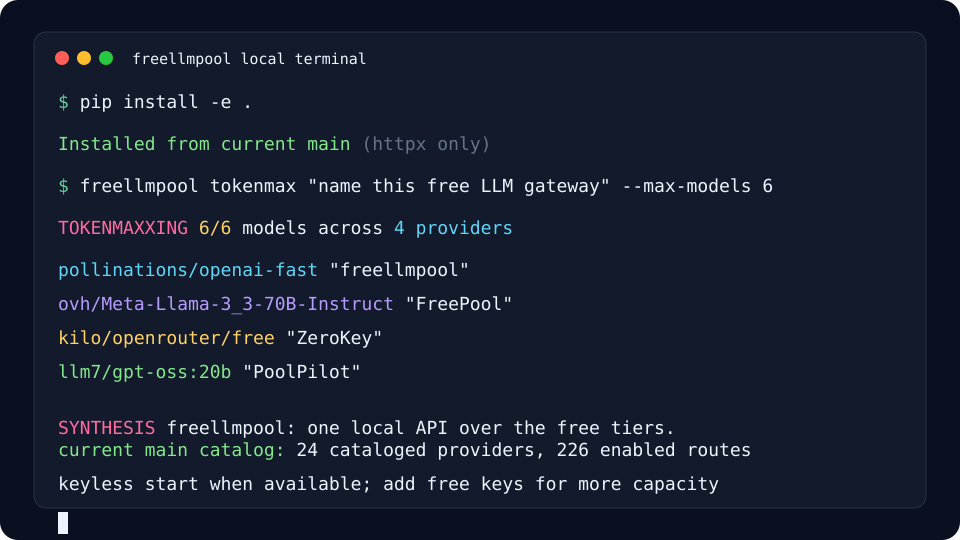
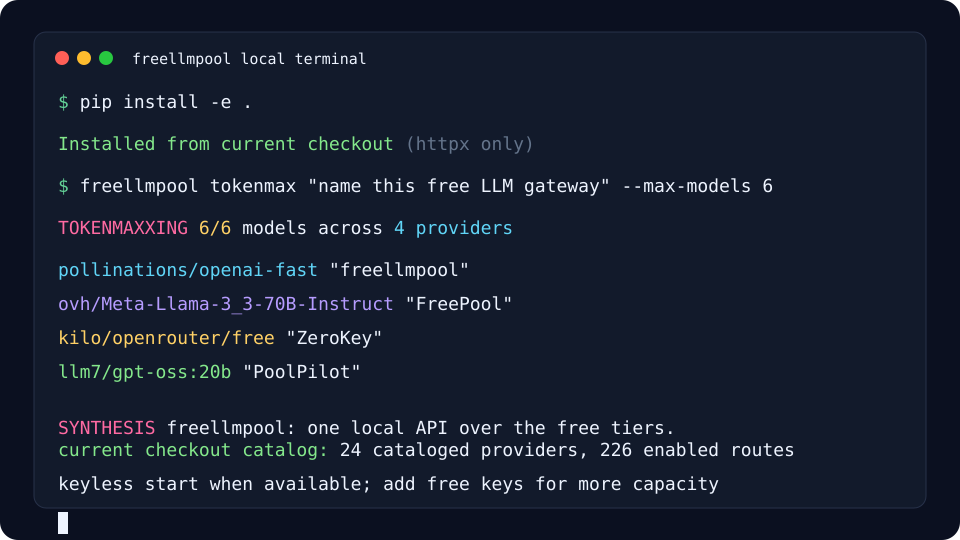
fix: close second xhigh audit findings

Changed region(s): [[0.1562, 0.8, 0.8438, 0.8593], [0.3125, 0.237, 0.5625, 0.2963]]

diff --git a/docs/index.html b/docs/index.html
@@ -185,7 +185,7 @@ for provider routing, ToS, and privacy notes.</p>
 
 </div>
 
-<p class="meta">Free and open source (MIT). Latest release: 0.11.4. Page updated 2026-07-28.
+<p class="meta">Free and open source (MIT). Latest release: 0.11.4. Page updated 2026-08-23.
 Project: <a href="https://github.com/0xzr/freellmpool">github.com/0xzr/freellmpool</a></p>
 
 </div>

diff --git a/tests/test_vercel_gateway.py b/tests/test_vercel_gateway.py
@@ -241,6 +241,17 @@ def test_public_audit_rejects_bad_or_nonzero_free_route_endpoints(endpoint_paylo
     assert exc.value.classification in {"invalid_endpoint_listing", "pricing_drift"}
 
 
+@pytest.mark.parametrize("malformed", ["not-a-row", {"status": "0"}, {"status": True}])
+def test_public_audit_rejects_mixed_valid_and_malformed_endpoint_rows(malformed):
+    payload = _endpoint_payload(AUTO_MODELS[0].name, prompt="0", completion="0")
+    payload["data"]["endpoints"].append(malformed)
+    with pytest.raises(VERIFIER.VerificationError) as exc:
+        VERIFIER.audit_public_catalog(
+            _provider(), fetch=_fetcher(endpoint_overrides={AUTO_MODELS[0].name: payload})
+        )
+    assert exc.value.classification == "invalid_endpoint_listing"
+
+
 def test_public_audit_rejects_malformed_tier_cost():
     payload = _endpoint_payload(AUTO_MODELS[0].name, prompt="0", completion="0")
     payload["data"]["endpoints"][0]["pricing"]["prompt_tiers"] = [{"min": 0}]
@@ -376,8 +387,9 @@ def test_acceptance_runs_exactly_three_single_attempt_normal_client_calls():
 
 def test_bounded_reader_rejects_oversized_response():
     class Response:
-        def iter_bytes(self, chunk_size=None):
-            assert chunk_size == 64 * 1024
+        headers = {}
+
+        def iter_raw(self):
             yield b"1234"
             yield b"5678"
 
@@ -388,13 +400,33 @@ def test_bounded_reader_rejects_oversized_response():
 
 def test_bounded_reader_enforces_total_deadline():
     class Response:
-        def iter_bytes(self, chunk_size=None):
-            yield b"{}"
+        headers = {}
+
+        def iter_raw(self):
+            yield b"x"
+            yield b"y"
 
     ticks = iter([0.0, 2.0])
     with pytest.raises(VERIFIER.VerificationError) as exc:
         VERIFIER._read_bounded(Response(), 100, deadline=1.0, now=lambda: next(ticks))
     assert exc.value.classification == "request_deadline_exceeded"
+
+
+def test_bounded_reader_rejects_content_encoding_before_decompression():
+    iterated = False
+
+    class Response:
+        headers = {"Content-Encoding": "gzip"}
+
+        def iter_raw(self):
+            nonlocal iterated
+            iterated = True
+            yield b"compressed"
+
+    with pytest.raises(VERIFIER.VerificationError) as exc:
+        VERIFIER._read_bounded(Response(), 100, deadline=1, now=lambda: 0)
+    assert exc.value.classification == "unexpected_content_encoding"
+    assert iterated is False
 
 
 def test_network_helpers_reject_unpinned_urls_before_transport(monkeypatch):
@@ -420,9 +452,11 @@ def test_network_helpers_reject_unpinned_urls_before_transport(monkeypatch):
 
 def test_network_helpers_disable_redirect_following(monkeypatch):
     seen = []
+    requests = []
 
     class Response:
         status_code = 200
+        headers = {}
 
         def __enter__(self):
             return self
@@ -430,7 +464,7 @@ def test_network_helpers_disable_redirect_following(monkeypatch):
         def __exit__(self, *_args):
             return None
 
-        def iter_bytes(self, chunk_size=None):
+        def iter_raw(self):
             yield b'{"data": []}'
 
     class Client:
@@ -443,12 +477,15 @@ def test_network_helpers_disable_redirect_following(monkeypatch):
         def __exit__(self, *_args):
             return None
 
-        def stream(self, *_args, **_kwargs):
+        def stream(self, *args, **kwargs):
+            requests.append((args, kwargs))
             return Response()
 
     monkeypatch.setattr(VERIFIER.httpx, "Client", Client)
     assert VERIFIER._bounded_json_get(VERIFIER.MODELS_URL) == {"data": []}
     assert seen == [{"follow_redirects": False, "timeout": VERIFIER.TIMEOUT_SECONDS}]
+    assert len(requests) == 1
+    assert requests[0][1]["headers"]["Accept-Encoding"] == "identity"
 
 
 def test_completion_transport_disables_redirects_and_posts_once(monkeypatch):
@@ -457,6 +494,7 @@ def test_completion_transport_disables_redirects_and_posts_once(monkeypatch):
 
     class Response:
         status_code = 200
+        headers = {}
 
         def __enter__(self):
             return self
@@ -464,7 +502,7 @@ def test_completion_transport_disables_redirects_and_posts_once(monkeypatch):
         def __exit__(self, *_args):
             return None
 
-        def iter_bytes(self, chunk_size=None):
+        def iter_raw(self):
             yield b'{"choices": []}'
 
     class Client:
@@ -489,11 +527,13 @@ def test_completion_transport_disables_redirects_and_posts_once(monkeypatch):
     assert seen_clients == [{"follow_redirects": False, "timeout": 3}]
     assert len(seen_streams) == 1
     assert seen_streams[0][0:2] == ("POST", f"{VERIFIER.BASE_URL}/chat/completions")
+    assert seen_streams[0][2]["headers"]["Accept-Encoding"] == "identity"
 
 
 def test_model_listing_http_status_is_classified_and_sanitized(monkeypatch):
     class Response:
         status_code = 402
+        headers = {}
 
         def __enter__(self):
             return self
@@ -501,7 +541,7 @@ def test_model_listing_http_status_is_classified_and_sanitized(monkeypatch):
         def __exit__(self, *_args):
             return None
 
-        def iter_bytes(self, chunk_size=None):
+        def iter_raw(self):
             yield b'{"error":"do-not-serialize"}'
 
     class Client:
@@ -533,6 +573,7 @@ def test_model_listing_http_status_is_classified_and_sanitized(monkeypatch):
 def test_model_listing_malformed_json_failures_are_sanitized(monkeypatch, raw):
     class Response:
         status_code = 200
+        headers = {}
 
         def __enter__(self):
             return self
@@ -540,7 +581,7 @@ def test_model_listing_malformed_json_failures_are_sanitized(monkeypatch, raw):
         def __exit__(self, *_args):
             return None
 
-        def iter_bytes(self, chunk_size=None):
+        def iter_raw(self):
             yield raw
 
     class Client:

diff --git a/scripts/verify_vercel_gateway.py b/scripts/verify_vercel_gateway.py
@@ -183,8 +183,12 @@ def _read_bounded(
     deadline: float,
     now: Callable[[], float] = time.monotonic,
 ) -> bytes:
+    headers = getattr(response, "headers", {})
+    encoding = headers.get("content-encoding") or headers.get("Content-Encoding") or "identity"
+    if not isinstance(encoding, str) or encoding.strip().lower() not in {"", "identity"}:
+        raise VerificationError("unexpected_content_encoding")
     raw = bytearray()
-    for chunk in response.iter_bytes(chunk_size=64 * 1024):
+    for chunk in response.iter_raw():
         if now() > deadline:
             raise VerificationError("request_deadline_exceeded")
         if not isinstance(chunk, bytes) or len(chunk) > max_bytes - len(raw):
@@ -225,7 +229,11 @@ def _bounded_json_get(
     deadline = time.monotonic() + timeout
     try:
         with httpx.Client(follow_redirects=False, timeout=timeout) as session:
-            with session.stream("GET", url, headers={"Accept": "application/json"}) as response:
+            with session.stream(
+                "GET",
+                url,
+                headers={"Accept": "application/json", "Accept-Encoding": "identity"},
+            ) as response:
                 status = response.status_code
                 raw = _read_bounded(response, max_bytes, deadline=deadline)
     except VerificationError:
@@ -257,9 +265,12 @@ class SingleAttemptPost:
         self.last_error_type = None
         self.last_status = None
         deadline = time.monotonic() + timeout
+        request_headers = {**headers, "Accept-Encoding": "identity"}
         try:
             with httpx.Client(follow_redirects=False, timeout=timeout) as session:
-                with session.stream("POST", url, headers=headers, json=body) as response:
+                with session.stream(
+                    "POST", url, headers=request_headers, json=body
+                ) as response:
                     status = response.status_code
                     self.last_status = status
                     raw = _read_bounded(response, self.max_bytes, deadline=deadline)
@@ -338,11 +349,14 @@ def audit_public_catalog(
             or not isinstance(data.get("endpoints"), list)
         ):
             raise VerificationError("invalid_endpoint_listing")
-        active = [
-            endpoint
-            for endpoint in data["endpoints"]
-            if isinstance(endpoint, dict) and endpoint.get("status") == 0
-        ]
+        endpoints = data["endpoints"]
+        for endpoint in endpoints:
+            if not isinstance(endpoint, dict):
+                raise VerificationError("invalid_endpoint_listing")
+            status = endpoint.get("status")
+            if isinstance(status, bool) or not isinstance(status, int) or status < 0:
+                raise VerificationError("invalid_endpoint_listing")
+        active = [endpoint for endpoint in endpoints if endpoint["status"] == 0]
         if not active:
             raise VerificationError("invalid_endpoint_listing")
         endpoint_prices: list[Decimal] = []

diff --git a/tests/test_release_metadata.py b/tests/test_release_metadata.py
@@ -35,7 +35,7 @@ def test_release_metadata_versions_match_package() -> None:
     assert f"{model_count.group(1)} cataloged" in docs
     assert f"Latest release: {version}" in docs
     assert f'"softwareVersion": "{version}"' in docs
-    assert "installed from current main" in demo.lower()
+    assert "installed from current checkout" in demo.lower()
     assert f"{provider_count.group(1)} cataloged providers" in demo
 
 
@@ -166,6 +166,8 @@ def test_pages_describe_current_main_agent_and_operations_surfaces() -> None:
 
 def test_pages_dates_match_current_documentation_pass() -> None:
     sitemap = (ROOT / "docs" / "sitemap.xml").read_text(encoding="utf-8")
+    index = (ROOT / "docs" / "index.html").read_text(encoding="utf-8")
+    assert "Page updated 2026-08-23" in index
     for page in (
         "https://0xzr.github.io/freellmpool/",
         "https://0xzr.github.io/freellmpool/run-opencode-on-free-models.html",
@@ -193,9 +195,11 @@ def test_pypi_metadata_has_launch_surfaces() -> None:
     pyproject = tomllib.loads((ROOT / "pyproject.toml").read_text())
     project = pyproject["project"]
     discovery = (ROOT / "docs/GITHUB_DISCOVERY.md").read_text(encoding="utf-8")
+    promotion = (ROOT / "docs/promotion/README.md").read_text(encoding="utf-8")
 
     assert len(project["description"]) <= 120
     assert f"> {project['description']}" in discovery
+    assert "Current main catalog (unreleased)" in promotion
 
     urls = project["urls"]
     for name in ("Docs", "Changelog", "Issues", "Repository"):

diff --git a/tests/test_release_tools.py b/tests/test_release_tools.py
@@ -65,6 +65,28 @@ def test_public_count_drift_detects_claim_wrapped_across_lines(tmp_path):
     assert any("cataloged model bucket drift" in error for error in errors)
 
 
+def test_public_count_drift_is_not_hidden_by_same_sentence_keyless_copy(tmp_path):
+    namespace = runpy.run_path(str(ROOT / "scripts" / "check-counts"))
+    (tmp_path / "README.md").write_text("", encoding="utf-8")
+    (tmp_path / "FAQ.md").write_text("", encoding="utf-8")
+    docs = tmp_path / "docs"
+    docs.mkdir()
+    (docs / "stale.md").write_text(
+        "Current catalog: 24 providers, 225 enabled chat routes, 409 cataloged chat "
+        "models; keyless start when available.\n",
+        encoding="utf-8",
+    )
+    counts = SimpleNamespace(
+        providers=24,
+        enabled_chat_models=226,
+        cataloged_chat_models=410,
+    )
+
+    errors = namespace["_check_public_drift"](tmp_path, counts)
+    assert any("enabled route bucket drift" in error for error in errors)
+    assert any("cataloged model bucket drift" in error for error in errors)
+
+
 def test_proxy_stress_script_tiny_profile():
     stress_proxy = _load_script("stress_proxy")
 

diff --git a/tests/test_router.py b/tests/test_router.py
@@ -184,7 +184,15 @@ def test_stream_chat_account_quota_skips_provider_catalog_and_backs_off(
     assert "beta.test" in sp.calls[0]["url"]
 
 
-def test_vercel_insufficient_funds_402_backs_off_the_whole_provider(env, quota):
+@pytest.mark.parametrize(
+    "error_body",
+    [
+        {"error": {"type": "insufficient_funds", "message": "Insufficient funds"}},
+        {},
+        {"error": {"type": "future_budget_error", "message": "changed wording"}},
+    ],
+)
+def test_vercel_any_402_backs_off_the_whole_provider(env, quota, error_body):
     vercel = Provider(
         id="vercel",
         label="Vercel",
@@ -205,7 +213,7 @@ def test_vercel_insufficient_funds_402_backs_off_the_whole_provider(env, quota):
         {
             "ai-gateway.vercel.sh": (
                 402,
-                {"error": {"type": "insufficient_funds", "message": "Insufficient funds"}},
+                error_body,
             ),
             "beta.test": (200, openai_body("fallback")),
         }

diff --git a/src/freellmpool/router.py b/src/freellmpool/router.py
@@ -114,26 +114,8 @@ def _is_account_quota_exhaustion(
     if exc.status not in (402, 429):
         return False
     message = str(exc).lower()
-    error_type = (exc.error_type or "").lower()
     if provider_id == "vercel" and exc.status == 402:
-        if error_type in {
-            "budget_exceeded",
-            "insufficient_credits",
-            "insufficient_funds",
-            "spend_limit_exceeded",
-        }:
-            return True
-        if any(
-            marker in message
-            for marker in (
-                "budget exceeded",
-                "insufficient funds",
-                "key budget",
-                "spend limit",
-                "spend quota",
-            )
-        ):
-            return True
+        return True
     return any(
         marker in message
         for marker in (

diff --git a/scripts/check_release_ready.py b/scripts/check_release_ready.py
@@ -99,8 +99,8 @@ def metadata_errors(root: Path, *, version: str | None = None) -> list[str]:
         "docs/index.html JSON-LD softwareVersion mismatch",
     )
     require(
-        "installed from current main" in demo.lower(),
-        "assets/demo.svg current-main transcript mismatch",
+        "installed from current checkout" in demo.lower(),
+        "assets/demo.svg current-checkout transcript mismatch",
     )
     require(re.search(rf"^## \[{re.escape(version)}\]", changelog, re.MULTILINE) is not None, "CHANGELOG missing top-level release entry")
 

diff --git a/tests/test_faq.py b/tests/test_faq.py
@@ -68,8 +68,9 @@ def test_demo_assets_are_well_formed_and_current():
     xml.dom.minidom.parseString(results)
     assert "TOKENMAXXING" in demo
     assert "--animation-duration: 8500ms" in demo
-    assert "installed from current main" in demo.lower()
+    assert "installed from current checkout" in demo.lower()
     assert "24 cataloged providers, 226 enabled routes" in demo
+    assert "current checkout catalog" in demo.lower()
     assert "keyless start when available" in demo
     assert "226" in results
     assert "410 cataloged" in results

diff --git a/docs/promotion/README.md b/docs/promotion/README.md
@@ -5,16 +5,21 @@ registry polish. Use this pack when posting externally.
 
 ## Current launch facts
 
+Release facts and unreleased repository facts are separated below. Do not pair
+the current-main catalog counts with the published PyPI package until a release
+containing those counts is available.
+
 - Repository: <https://github.com/0xzr/freellmpool>
 - Docs: <https://0xzr.github.io/freellmpool/>
 - PyPI: <https://pypi.org/project/freellmpool/>
 - Version: `0.11.4`
-- Catalog: 24 cataloged providers, 226 enabled chat routes, 410 cataloged chat models
 - First-run hook: installs with `pip install freellmpool` and can answer with no
   API keys through default keyless/key-optional routes.
 - Interfaces: CLI, Python library, OpenAI-compatible proxy, experimental
   Anthropic-compatible proxy path, and MCP server.
 - Audio: OpenAI-compatible speech-to-text through the transcription endpoint.
+- Current main catalog (unreleased): 24 cataloged providers, 226 enabled chat
+  routes, 410 cataloged chat models.
 - Strongest visual assets:
   - `assets/social-preview.png`
   - `assets/demo.png`
